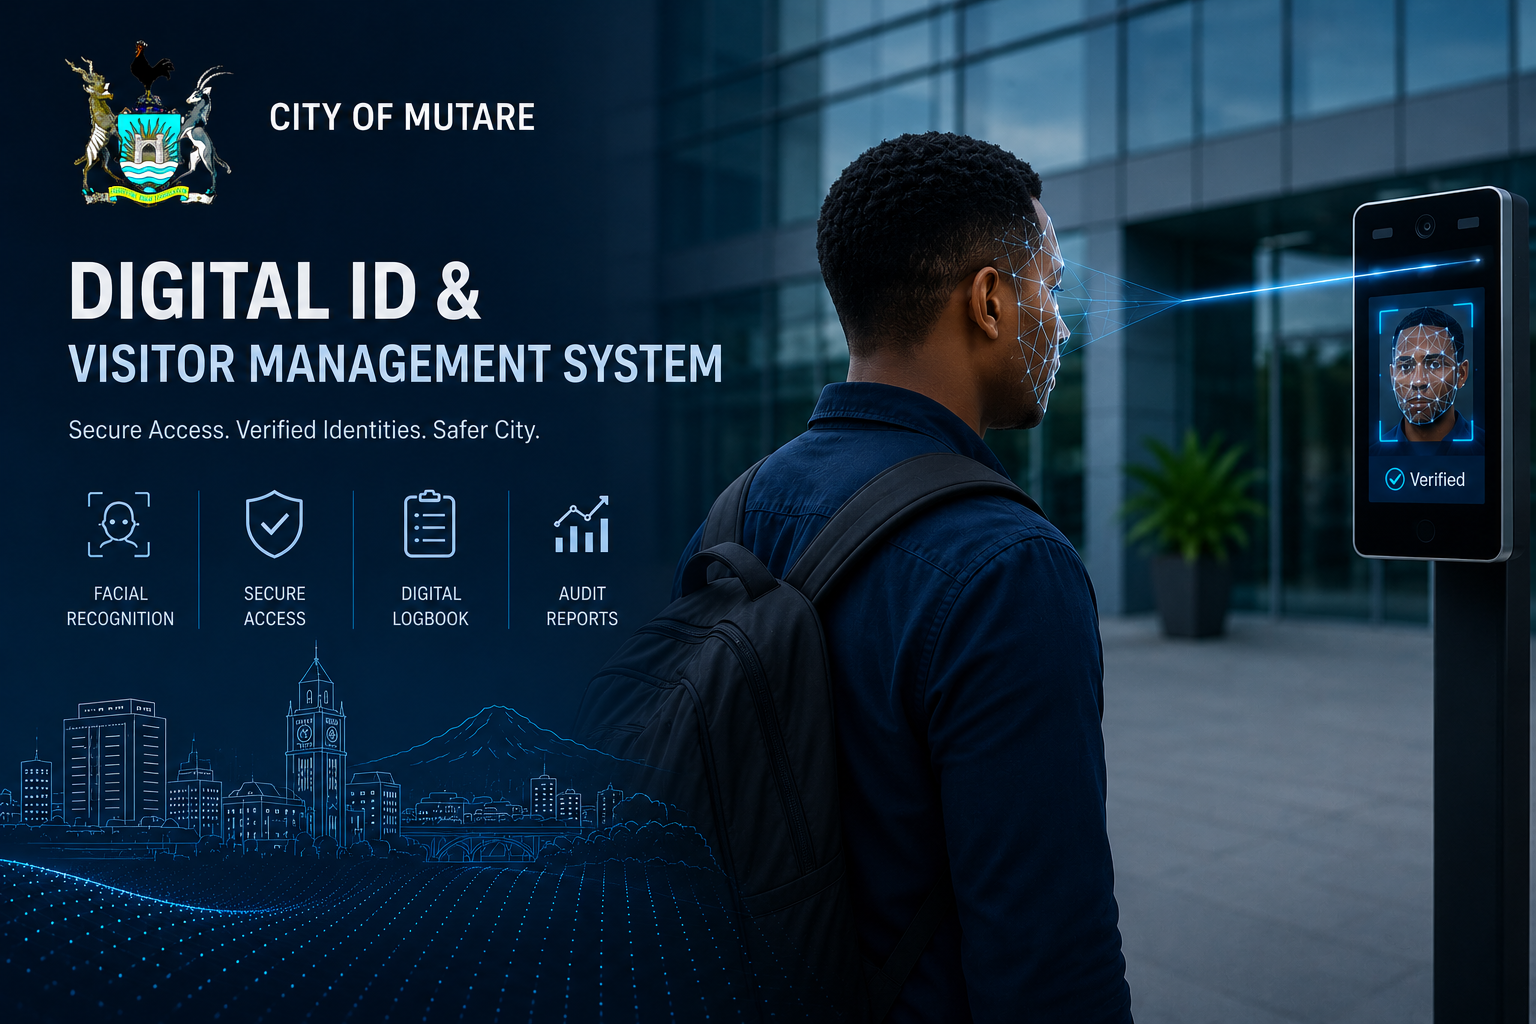
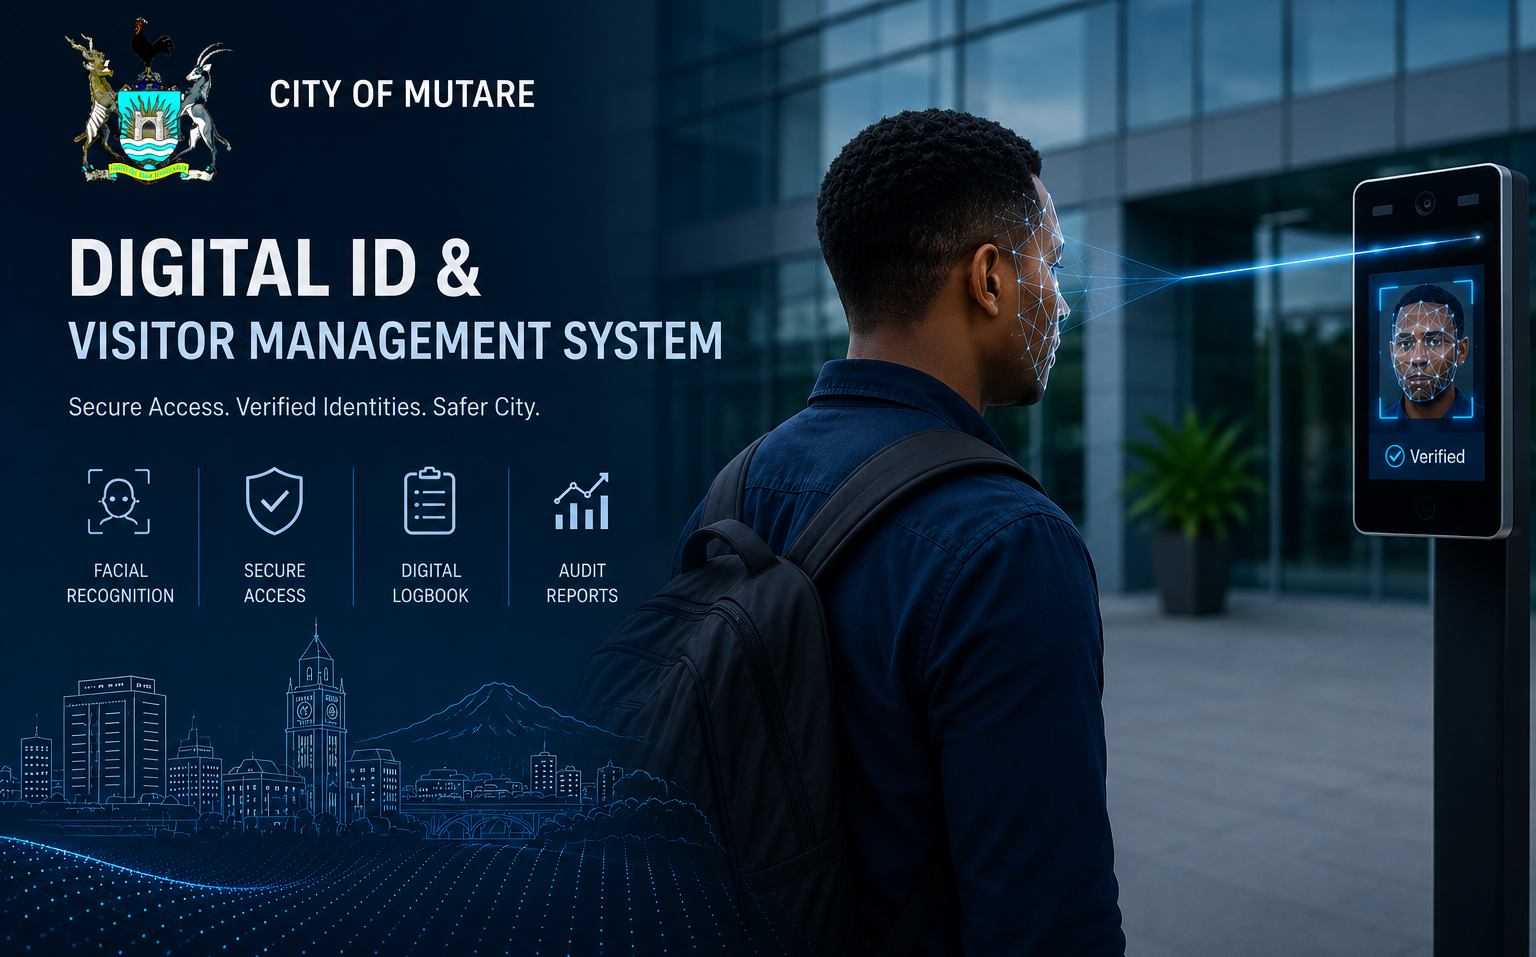
Shrink login card, fit background image, prevent scroll

diff --git a/static/css/style.css b/static/css/style.css
@@ -315,9 +315,12 @@ body:has(.login-wrapper) {
   background:
     linear-gradient(135deg, rgba(15, 26, 46, 0.85) 0%, rgba(27, 42, 74, 0.75) 50%, rgba(22, 42, 74, 0.85) 100%),
     url("/static/loginbg.png");
-  background-size: cover;
+  background-size: contain;
   background-position: center;
+  background-repeat: no-repeat;
   position: relative;
+  overflow: hidden;
+  height: 100vh;
 }
 
 .login-wrapper {
@@ -341,11 +344,11 @@ body:has(.login-wrapper) {
 
 .login-card {
   width: 100%;
-  max-width: 400px;
+  max-width: 360px;
   background: var(--white);
-  border-radius: 16px;
+  border-radius: 14px;
   box-shadow: 0 16px 48px rgba(0, 0, 0, 0.25);
-  padding: 2.5rem 2rem 1.5rem;
+  padding: 2rem 1.75rem 1.25rem;
   position: relative;
   overflow: hidden;
   animation: loginFadeIn 0.5s ease-out;
@@ -370,28 +373,28 @@ body:has(.login-wrapper) {
 
 .login-header {
   text-align: center;
-  margin-bottom: 2rem;
+  margin-bottom: 1.5rem;
 }
 
 .login-logo {
-  width: 80px;
-  height: 80px;
+  width: 64px;
+  height: 64px;
   object-fit: contain;
-  margin-bottom: 0.75rem;
+  margin-bottom: 0.5rem;
   filter: drop-shadow(0 2px 4px rgba(0,0,0,0.1));
 }
 
 .login-title {
   font-family: "Inter", sans-serif;
-  font-size: 1.4rem;
+  font-size: 1.2rem;
   font-weight: 700;
   letter-spacing: -0.02em;
   color: var(--navy-800);
-  margin-bottom: 0.2rem;
+  margin-bottom: 0.15rem;
 }
 
 .login-subtitle {
-  font-size: 0.82rem;
+  font-size: 0.75rem;
   color: var(--text-muted);
   margin-bottom: 0;
   letter-spacing: 0.02em;
@@ -428,21 +431,21 @@ body:has(.login-wrapper) {
   border: 1.5px solid var(--border);
   border-right: none;
   color: var(--text-muted);
-  font-size: 1rem;
-  padding: 0.55rem 0.8rem;
+  font-size: 0.9rem;
+  padding: 0.45rem 0.65rem;
   transition: all 0.2s ease;
 }
 
 .login-card .input-group .form-control {
   border-left: none;
-  padding: 0.55rem 0.8rem;
-  font-size: 0.95rem;
+  padding: 0.45rem 0.65rem;
+  font-size: 0.875rem;
   transition: all 0.2s ease;
 }
 
 .login-card .input-group .form-control::placeholder {
   color: #B0B8C4;
-  font-size: 0.875rem;
+  font-size: 0.8rem;
 }
 
 .login-card .input-group .form-control:focus {
@@ -461,36 +464,36 @@ body:has(.login-wrapper) {
 }
 
 .login-card .form-label {
-  font-size: 0.75rem;
+  font-size: 0.7rem;
   font-weight: 600;
   text-transform: uppercase;
   letter-spacing: 0.05em;
   color: var(--text-secondary);
-  margin-bottom: 0.4rem;
-  padding-left: 0.15rem;
+  margin-bottom: 0.3rem;
+  padding-left: 0.1rem;
 }
 
 .login-options {
   display: flex;
   align-items: center;
   justify-content: space-between;
-  margin-bottom: 1.5rem;
+  margin-bottom: 1.25rem;
 }
 
 .login-options .form-check {
   display: flex;
   align-items: center;
-  gap: 0.4rem;
+  gap: 0.35rem;
   margin-bottom: 0;
   min-height: 0;
   padding-left: 0;
 }
 
 .login-options .form-check-input {
-  width: 16px;
-  height: 16px;
+  width: 14px;
+  height: 14px;
   margin: 0;
-  border-radius: 4px;
+  border-radius: 3px;
   border: 1.5px solid var(--border);
   cursor: pointer;
   transition: all 0.15s ease;
@@ -505,14 +508,14 @@ body:has(.login-wrapper) {
 }
 
 .login-options .form-check-label {
-  font-size: 0.82rem;
+  font-size: 0.78rem;
   color: var(--text-secondary);
   cursor: pointer;
   user-select: none;
 }
 
 .login-forgot {
-  font-size: 0.82rem;
+  font-size: 0.78rem;
   color: var(--green-600);
   text-decoration: none;
   font-weight: 500;
@@ -524,8 +527,8 @@ body:has(.login-wrapper) {
 }
 
 .login-btn {
-  padding: 0.7rem 1rem;
-  font-size: 1rem;
+  padding: 0.55rem 1rem;
+  font-size: 0.9rem;
   font-weight: 600;
   border-radius: var(--radius-sm);
   background: linear-gradient(135deg, var(--navy-800), var(--navy-700));
@@ -564,9 +567,9 @@ body:has(.login-wrapper) {
 
 .login-footer {
   text-align: center;
-  font-size: 0.7rem;
+  font-size: 0.65rem;
   color: var(--text-muted);
-  margin-top: 1.75rem;
+  margin-top: 1.25rem;
   margin-bottom: 0;
   letter-spacing: 0.02em;
 }